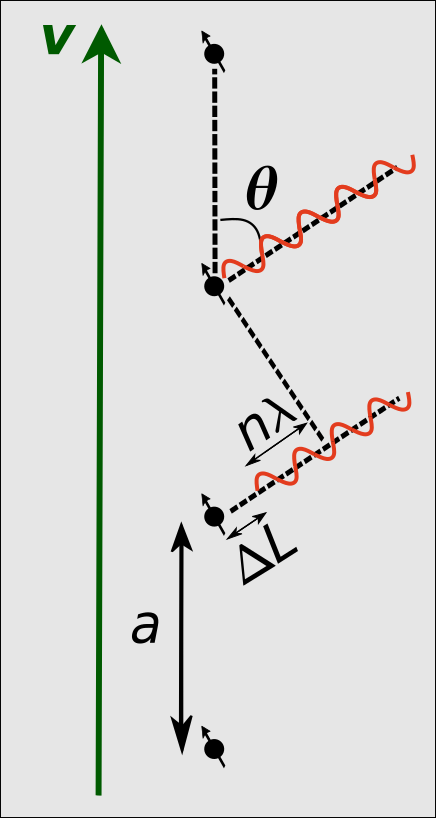
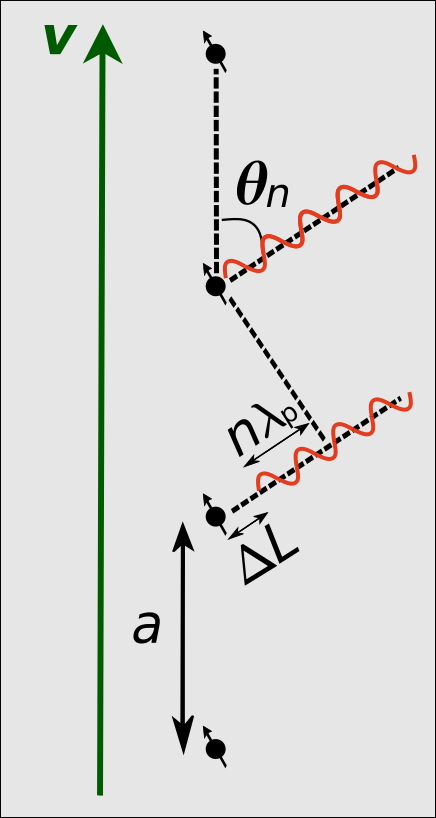
update from icfo dell

diff --git a/hBn/plot_hBn_PP.py b/hBn/plot_hBn_PP.py
@@ -33,25 +33,27 @@ except ModuleNotFoundError:
 
 #%%
     
-tamfig = (4.5,3.5)
-tamlegend = 12
-tamletra = 12
-tamtitle = 11
-tamnum = 10
-labelpady = -1.5
-labelpadx = 2
-pad = 0
-mk = 2
-ms = 4
+tamfig = [2.5, 2]
+tamletra = 9
+tamtitle  = 8
+tamnum = 7
+tamlegend = 8
+labelpady = 2
+labelpadx = 3
+pad = 3
+mk = 1
+ms = 2
 hp = 0.3
-length_marker = 1
+length_marker = 0
+dpi = 500
+
 
 def graph(title,labelx,labely,tamfig,tamtitle,tamletra,tamnum,labelpadx,labelpady,pad):
     plt.figure(figsize=tamfig)
     plt.xlabel(labelx,fontsize=tamletra,labelpad =labelpadx)
     plt.ylabel(labely,fontsize=tamletra,labelpad =labelpadx)
-    plt.tick_params(labelsize = tamnum, pad = pad)
-    plt.title(title,fontsize=int(tamtitle*0.9))
+    plt.tick_params(labelsize = tamnum, length = 2 , width=1, direction="in", pad = pad)
+#    plt.title(title,fontsize=int(tamtitle*0.9))
 
     return   
 
@@ -102,7 +104,7 @@ list_ind2.append(list_ind[-1])
 #Emax = listx[np.argmax(listy_re_num)]
 #print(Emax)
 
-labelx = r'$\hbar\omega$ [eV]'
+labelx = r'$\hbar\omega$ (eV)'
 labely1 = r'Re{$\epsilon$}'
 labely2 = r'Im{$\epsilon$}'
 title = 'hBn'
@@ -110,13 +112,13 @@ title = 'hBn'
 #%%
 graph(title,labelx,labely1,tamfig,tamtitle,tamletra,tamnum,labelpadx,labelpady,pad)
 #    plt.plot(listx,listy_re_ana,'.',ms = ms,color = 'purple',label = 'analytical')
-plt.plot(listx,listy_re_x,'.-',ms = ms,color = 'lightseagreen',label = r'Re{$\epsilon_x$}')
-plt.plot(listx,listy_re_z,'.-',ms = 3,color = 'darkred',label = r'Re{$\epsilon_z$}')
+plt.plot(listx,listy_re_x,'--',lw = ms,color = 'lightseagreen',label = r'Re{$\epsilon_{\parallel}$}')
+plt.plot(listx,listy_re_z,'-',ms = ms,color = 'darkred',label = r'Re{$\epsilon_{\perp}$}')
 ejey_aux = np.linspace(np.min([np.min(listy_re_z),np.min(listy_re_x)]), np.max([np.max(listy_re_z),np.max(listy_re_x)]) , 10)
 for ind in list_ind2:
     plt.plot(listx[ind]*np.ones(10), ejey_aux,'--',color = 'grey' )
     print(listx[ind])
-plt.legend(loc = 'best',markerscale=2,fontsize=tamlegend,frameon=0,handletextpad=0.2, handlelength=length_marker)
+plt.legend(loc = [0.02,0.95],ncol = 2,markerscale=2,fontsize=tamlegend,frameon=0,handletextpad=0.2, handlelength=2)
 plt.tight_layout()
 os.chdir(path_basic)
 plt.savefig( 'Re_epsilon_hBn' + '.png', format='png')   
@@ -125,8 +127,8 @@ plt.savefig( 'Re_epsilon_hBn' + '.png', format='png')
 #%%
 graph(title,labelx,labely2,tamfig,tamtitle,tamletra,tamnum,labelpadx,labelpady,pad)
 #    plt.plot(listx,listy_re_ana,'.',ms = ms,color = 'purple',label = 'analytical')
-plt.plot(listx,listy_im_x,'.-',ms = ms,color = 'lightseagreen',label = r'Im{$\epsilon_x$}')
-plt.plot(listx,listy_im_z,'.-',ms = 3,color = 'darkred',label = r'Im{$\epsilon_z$}')
+plt.plot(listx,listy_im_x,'--',lw = ms,color = 'lightseagreen',label = r'Im{$\epsilon_{\parallel}$}')
+plt.plot(listx,listy_im_z,'.-',ms = ms,color = 'darkred',label = r'Im{$\epsilon_{\perp}$}')
 ejey_aux = np.linspace(np.min([np.min(listy_im_x),np.min(listy_im_z)]), np.max([np.max(listy_im_x),np.max(listy_im_z)]) , 10)
 for ind in list_ind2:
     plt.plot(listx[ind]*np.ones(10), ejey_aux,'--',color = 'grey' )

diff --git a/graphene/infinite_dipoles/plot_theta_ang_3D.py b/graphene/infinite_dipoles/plot_theta_ang_3D.py
@@ -254,7 +254,7 @@ list_omega_omegaD = np.array(list_EmeV)*1e-3/omega_D ## sin el hbar porque se ca
 list_omegac = np.array(list_EmeV)*1e-3/(hb*c)
 list_a_omega_v = np.array(list_a_micros)*np.array(list_omegac)*int_v    
 
-labelz = r'$\theta_n$' +  '(' + u"\N{DEGREE SIGN}" + ')'
+labelz = r'$\theta_%i$' %(Nmax) +  '(' + u"\N{DEGREE SIGN}" + ')'
 
 
 limits = [np.min(list_omega_omegaD) , np.max(list_omega_omegaD), np.min(list_a_omega_v) , np.max(list_a_omega_v)]
